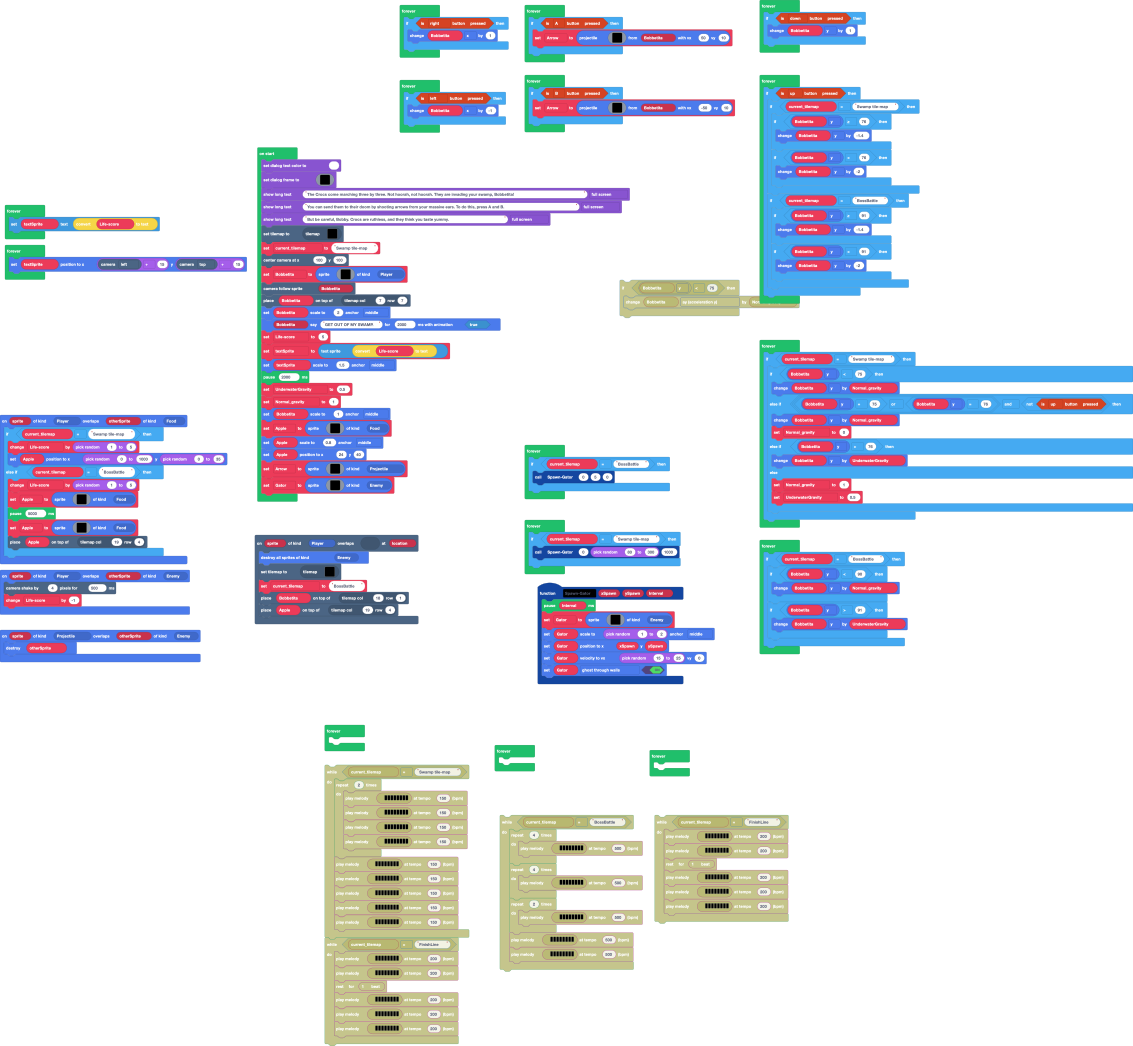
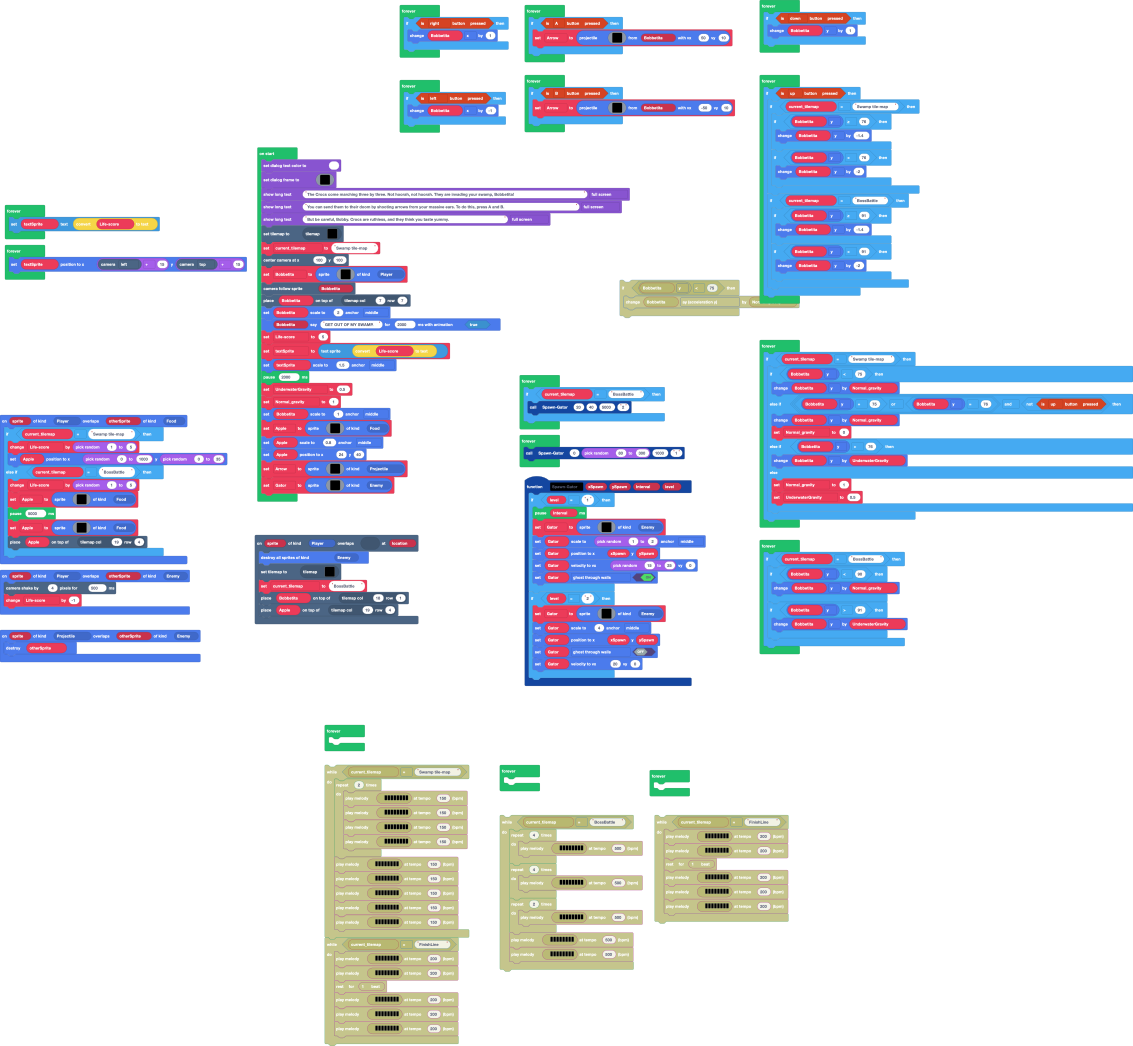
Spawn Gator function is different for level 1 and 2

Changed region(s): [[0.4325, 0.3365, 0.6487, 0.673], [0.556, 0.7036, 0.6178, 0.7648], [0.4325, 0.7036, 0.4943, 0.7648]]

diff --git a/main.ts b/main.ts
@@ -21,13 +21,22 @@ sprites.onOverlap(SpriteKind.Player, SpriteKind.Food, function (sprite, otherSpr
         tiles.placeOnTile(Apple, tiles.getTileLocation(19, 4))
     }
 })
-function SpawnGator (xSpawn: number, ySpawn: number, Interval: number) {
-    pause(Interval)
-    Gator = sprites.create(assets.image`Alligators`, SpriteKind.Enemy)
-    Gator.setScale(randint(1, 2), ScaleAnchor.Middle)
-    Gator.setPosition(xSpawn, ySpawn)
-    Gator.setVelocity(randint(15, 25), 0)
-    Gator.setFlag(SpriteFlag.GhostThroughWalls, true)
+function SpawnGator (xSpawn: number, ySpawn: number, Interval: number, level: string) {
+    if (level == "1") {
+        pause(Interval)
+        Gator = sprites.create(assets.image`Alligators`, SpriteKind.Enemy)
+        Gator.setScale(randint(1, 2), ScaleAnchor.Middle)
+        Gator.setPosition(xSpawn, ySpawn)
+        Gator.setVelocity(randint(15, 25), 0)
+        Gator.setFlag(SpriteFlag.GhostThroughWalls, true)
+    }
+    if (level == "2") {
+        Gator = sprites.create(assets.image`Alligators`, SpriteKind.Enemy)
+        Gator.setScale(4, ScaleAnchor.Middle)
+        Gator.setPosition(xSpawn, ySpawn)
+        Gator.setFlag(SpriteFlag.GhostThroughWalls, false)
+        Gator.setVelocity(20, 0)
+    }
 }
 sprites.onOverlap(SpriteKind.Projectile, SpriteKind.Enemy, function (sprite, otherSprite) {
     otherSprite.destroy()
@@ -133,13 +142,11 @@ forever(function () {
 })
 forever(function () {
     if (current_tilemap == "BossBattle") {
-        SpawnGator(0, 5, 0)
+        SpawnGator(20, 40, 5000, "2")
     }
 })
 forever(function () {
-    if (current_tilemap == "Swamp tile-map") {
-        SpawnGator(0, randint(80, 300), 1000)
-    }
+    SpawnGator(0, randint(80, 300), 1000, "1")
 })
 forever(function () {
     if (current_tilemap == "BossBattle") {
